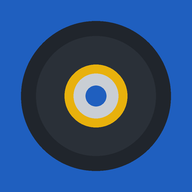
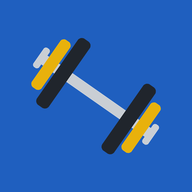
Add files via upload

diff --git a/index.html b/index.html
@@ -6,11 +6,11 @@
 <meta name="theme-color" content="#1F5FBF">
 <meta name="mobile-web-app-capable" content="yes">
 <meta name="apple-mobile-web-app-capable" content="yes">
-<meta name="apple-mobile-web-app-title" content="Hierro">
+<meta name="apple-mobile-web-app-title" content="Fitty">
 <link rel="manifest" href="manifest.json">
 <link rel="icon" href="icon-192.png">
 <link rel="apple-touch-icon" href="icon-192.png">
-<title>Hierro</title>
+<title>Fitty</title>
 <link rel="preconnect" href="https://fonts.googleapis.com">
 <link rel="preconnect" href="https://fonts.gstatic.com" crossorigin>
 <link href="https://fonts.googleapis.com/css2?family=Barlow+Condensed:wght@500;600;700;800&family=Barlow:wght@400;500;600&display=swap" rel="stylesheet">
@@ -186,7 +186,7 @@ h2{font-family:var(--display);font-weight:700;font-size:1.35rem;margin:28px 0 10
   <!-- HOY -->
   <section class="screen" id="s-hoy">
     <div class="top">
-      <h1 class="wordmark">Hierro</h1>
+      <h1 class="wordmark">Fitty</h1>
       <button class="icon-btn" data-act="settings" aria-label="Ajustes">⚙</button>
     </div>
     <div id="hoy"></div>
@@ -240,7 +240,7 @@ h2{font-family:var(--display);font-weight:700;font-size:1.35rem;margin:28px 0 10
 <script>
 'use strict';
 /* =========================================================
-   HIERRO: registro de entrenos, marcas y días de gimnasio
+   FITTY: registro de entrenos, marcas y días de gimnasio
    Todo se guarda en tu móvil (localStorage). Nada sale de él.
    ========================================================= */
 
@@ -706,7 +706,7 @@ function exportCSV() {
   const rows = [['fecha', 'entreno', 'ejercicio', 'grupo', 'serie', 'kg', 'reps', '1rm_estimado'].join(';')];
   for (const w of [...S.workouts].sort((a, b) => a.start - b.start))
     for (const e of w.exercises) e.sets.forEach((s, i) => rows.push([w.date, q(w.name), q(ex(e.exId).name), ex(e.exId).group, i + 1, String(s.kg).replace('.', ','), s.reps, fmt(e1rm(s.kg, s.reps))].join(';')));
-  download(`hierro-entrenos-${dkey()}.csv`, '\ufeff' + rows.join('\n'), 'text/csv');
+  download(`fitty-entrenos-${dkey()}.csv`, '\ufeff' + rows.join('\n'), 'text/csv');
 }
 
 /* =========================================================
@@ -775,7 +775,7 @@ const actions = {
   },
   finish: finishWorkout,
   discard: () => { if (confirm('¿Descartar este entreno? Se perderán las series apuntadas.')) { S.active = null; ui.wkOpen = false; save(); renderAll(); } },
-  export: () => { download(`hierro-copia-${dkey()}.json`, JSON.stringify(S, null, 1), 'application/json'); toast('Copia exportada'); },
+  export: () => { download(`fitty-copia-${dkey()}.json`, JSON.stringify(S, null, 1), 'application/json'); toast('Copia exportada'); },
   import: () => $('#importFile').click(),
   csv: exportCSV,
   wipe: () => { if (confirm('¿Borrar todos tus entrenos, marcas y rutinas? Exporta una copia antes si quieres conservarlos.') && confirm('Última confirmación: se borrará todo.')) { S = fresh(); save(); closeSheet(); renderAll(); toast('Datos borrados'); } }
@@ -798,7 +798,7 @@ $('#importFile').addEventListener('change', async e => {
     if (!Array.isArray(d.workouts) || !Array.isArray(d.exercises)) throw new Error('formato');
     if (!confirm(`La copia tiene ${d.workouts.length} entrenos. Sustituirá los datos actuales. ¿Continuar?`)) return;
     S = migrate(d); ui.wkOpen = !!S.active; save(); closeSheet(); renderAll(); toast('Copia importada');
-  } catch (err) { toast('Ese archivo no es una copia de Hierro válida'); }
+  } catch (err) { toast('Ese archivo no es una copia de Fitty válida'); }
 });
 
 /* ---------- Dibujar todo ---------- */

diff --git a/sw.js b/sw.js
@@ -1,5 +1,5 @@
 // Cambia este número cada vez que subas una versión nueva de la app
-const VERSION = 'hierro-v1';
+const VERSION = 'fitty-v3';
 const SHELL = ['./', './index.html', './manifest.json', './icon-192.png', './icon-512.png', './icon-maskable.png'];
 
 self.addEventListener('install', e => {

diff --git a/LEEME.md b/LEEME.md
@@ -1,12 +1,12 @@
-# Hierro: tu app de gimnasio
+# Fitty: tu app de gimnasio
 
 Archivos: index.html (toda la app), manifest.json (nombre e icono), sw.js (funciona sin internet) e iconos.
 
 ## Instalarla en el móvil
-1. Crea una cuenta en github.com y un repositorio nuevo, público, llamado `hierro`.
+1. Crea una cuenta en github.com y un repositorio nuevo, público, llamado `fitty`.
 2. Pulsa "Add file" > "Upload files" y sube TODOS estos archivos (sin carpeta).
 3. Ve a Settings > Pages, en "Branch" elige `main` y pulsa Save.
-4. En un par de minutos tendrás la app en https://TU-USUARIO.github.io/hierro/
+4. En un par de minutos tendrás la app en https://TU-USUARIO.github.io/fitty/
 5. Ábrela en Chrome, menú ⋮ > "Añadir a pantalla de inicio" > Instalar.
 
 ## Cambiar cosas
